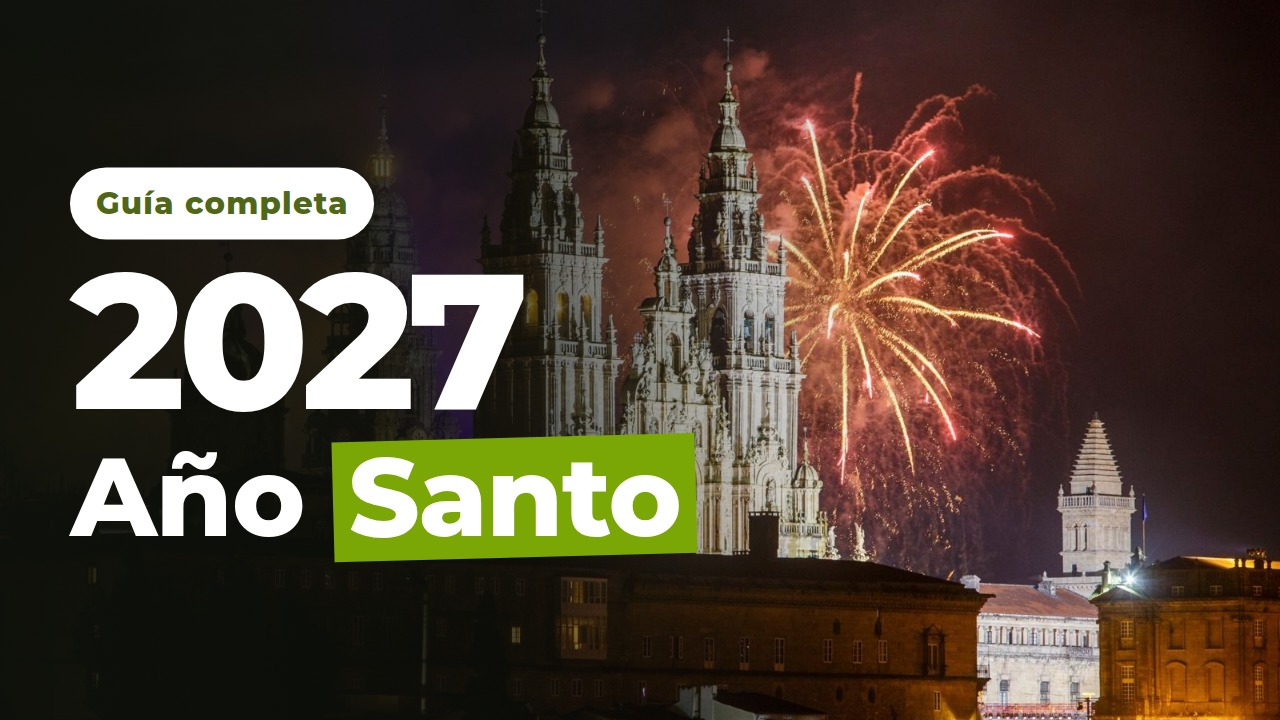
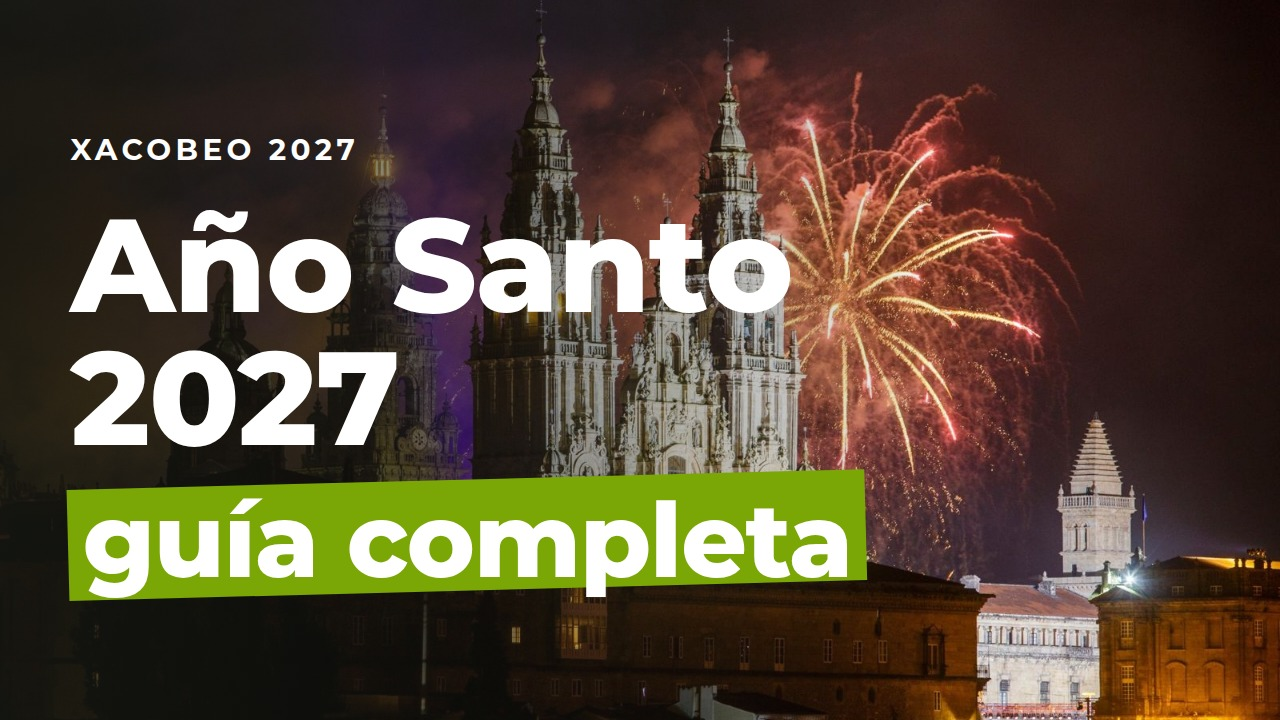
Miniaturas de la guía del Año Santo con la misma plantilla que el resto
Claude-Session: https://claude.ai/code/session_01VgtpFgEc7N9EFi63NUqpEw

Changed region(s): [[0.0312, 0.0917, 0.6875, 0.8556], [0.3438, 0.1528, 0.375, 0.1833]]

diff --git a/aplicaciones/index.html b/aplicaciones/index.html
@@ -2575,10 +2575,10 @@ footer{padding-block:40px 60px;color:var(--muted);font-size:12.5px}
     <p>Miniatura para el vídeo largo «Guía del Año Santo 2027», en dos variantes, y cuatro Shorts que lo acompañan con la plantilla de serie de los Shorts. Todos llevan «Año Santo» o «Xacobeo 2027» arriba para que se lean como una serie en el canal.</p>
   </div>
   <div class="as-grid">
- <div class="yt"><div class="pz r169 yt-thumb ga ga1" id="ga1"><div class="bg" style="background-image:url(assets/fuegos.jpg)"></div><div class="fill"></div><div class="body"><span class="tagg">Guía completa</span><span class="yr">2027</span><h3 class="h">Año <span class="u">Santo</span></h3></div><span class="dur">16:24</span></div>
-  <div class="yt-meta"><span class="av"><i class="mk iso"></i></span><div><b>Guía del Año Santo 2027: todo lo que necesitas saber para hacer el Camino</b><small>Variante A · foto a sangre y año grande</small></div></div></div>
- <div class="yt"><div class="pz r169 yt-thumb ga ga2" id="ga2"><div class="pan"></div><div class="ph" style="background-image:url(assets/hilary.jpg)"></div><div class="body"><span class="tagg">Xacobeo 2027</span><h3 class="h">Guía del <span class="u neg">Año Santo</span></h3><div class="chk"><span>Fechas clave</span><span>Rutas</span><span>Cuándo reservar</span></div></div><span class="dur">16:24</span></div>
-  <div class="yt-meta"><span class="av"><i class="mk iso"></i></span><div><b>Guía del Año Santo 2027: todo lo que necesitas saber para hacer el Camino</b><small>Variante B · Hilary como presentadora</small></div></div></div>
+ <div class="yt"><div class="pz r169 yt-thumb t t1" id="ga1"><div class="bg" style="background-image:url(assets/fuegos.jpg);background-position:62% 40%"></div><div class="fill shade-l"></div><div class="body"><span class="eb">Xacobeo 2027</span><h3 class="h">Año Santo<br>2027</h3><span class="h h2"><span class="u">guía completa</span></span></div><span class="dur">16:24</span></div>
+  <div class="yt-meta"><span class="av"><i class="mk iso"></i></span><div><b>Guía del Año Santo 2027: todo lo que necesitas saber para hacer el Camino</b><small>Variante A · misma plantilla que «Sarria → Santiago»</small></div></div></div>
+ <div class="yt"><div class="pz r169 yt-thumb t t4" id="ga2"><div class="bg" style="background-image:url(assets/hilary.jpg);background-size:160% auto;background-position:100% 25%"></div><div class="fill shade-r"></div><div class="body"><span class="eb">Guía · Xacobeo 2027</span><h3 class="h">Todo sobre el <span class="u">Año Santo</span></h3></div><span class="dur">16:24</span></div>
+  <div class="yt-meta"><span class="av"><i class="mk iso"></i></span><div><b>Guía del Año Santo 2027: todo lo que necesitas saber para hacer el Camino</b><small>Variante B · Hilary, misma plantilla que «Lo que se siente al llegar»</small></div></div></div>
 </div>
   <div class="sh-grid" style="margin-top:26px"><div class="sh"><div class="pz r916 shc"><div class="bg" style="background-image:url(assets/fuegos.jpg);background-position:55% 40%"></div><div class="vig"></div><span class="tag">Año Santo</span><div class="card"><span class="bdg sm">2032</span><h3>¿Por qué 2027 es <span class="u">Año Santo</span>?</h3></div><span class="safe-y">Título y vistas</span></div><b>¿Por qué 2027 es Año Santo?</b><small>Short · 0:45</small></div><div class="sh"><div class="pz r916 shc"><div class="bg" style="background-image:url(assets/catedral.jpg);background-position:50% 30%"></div><div class="vig"></div><span class="tag">Xacobeo 2027</span><div class="card"><span class="bdg">25</span><h3>El gran día: <span class="u">25 de julio</span></h3></div><span class="safe-y">Título y vistas</span></div><b>El 25 de julio cae en domingo</b><small>Short · 0:38</small></div><div class="sh"><div class="pz r916 shc"><div class="bg" style="background-image:url(assets/hilary.jpg);background-position:55% 10%"></div><div class="vig"></div><span class="tag">Año Santo</span><div class="card"><span class="bdg">?</span><h3>¿Cuándo <span class="u">reservar</span> para 2027?</h3></div><span class="safe-y">Título y vistas</span></div><b>¿Cuándo reservar para el Año Santo?</b><small>Short · 0:52</small></div><div class="sh"><div class="pz r916 shc"><div class="bg" style="background-image:url(assets/mojon.jpg);background-position:22% 30%"></div><div class="vig"></div><span class="tag">Año Santo</span><div class="card"><span class="bdg sm">100</span><h3>km para tu <span class="u">Compostela</span></h3></div><span class="safe-y">Título y vistas</span></div><b>La Compostela en Año Santo</b><small>Short · 0:41</small></div></div>
   <div class="asm">
